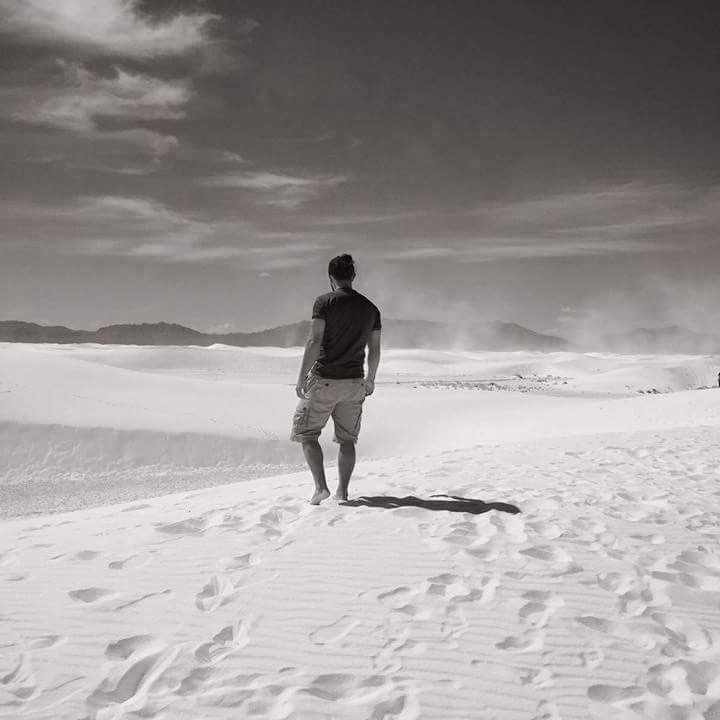
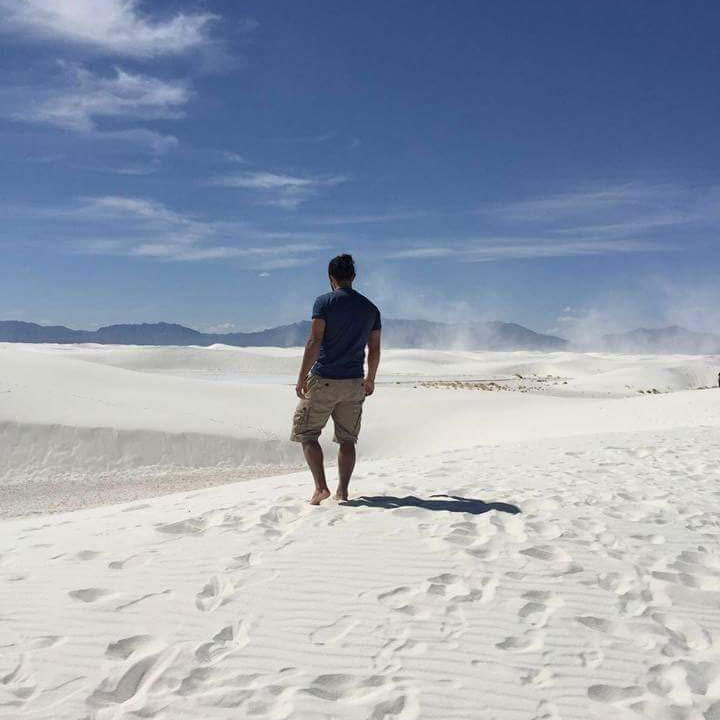
added about page and edited styling for footer

diff --git a/index.html b/index.html
@@ -6,9 +6,16 @@
     <meta http-equiv="X-UA-Compatible" content="ie=edge">
     <title>Awakening Warriors</title>
     <link rel="stylesheet" href="index.css">
-    <link href="https://fonts.googleapis.com/css?family=Open+Sans&display=swap" rel="stylesheet">
-    <script src="https://use.fontawesome.com/d247b6c3c9.js"></script>
+    
+    
+    <link href="https://fonts.googleapis.com/css?family=Open+Sans&display=swap" 
+        rel="stylesheet">
     <link href="https://fonts.googleapis.com/css?family=Arvo&display=swap" rel="stylesheet">
+    <link href="https://fonts.googleapis.com/css?family=Shadows+Into+Light&display=swap" rel="stylesheet">
+
+
+
+    <script src="https://use.fontawesome.com/d247b6c3c9.js"></script>
 </head>
 <body>
     
@@ -47,13 +54,16 @@
        <div class="traintext">
         <h2>Personal Training</h2>
         <p>Lorem ipsum dolor sit amet consectetur adipisicing elit. Optio quo, blanditiis nihil earum quasi voluptatibus eum, perspiciatis culpa maiores quam quis perferendis in. Adipisci earum maxime distinctio quo fugit in?</p>
+        
         <button>
             <a href="#">Boxing Schedule</a>    
         </button>
         <button>
             <a href="https://selfmadetrainingfacility.com/">Our Gym</a>    
         </button>
-    </div>
+        
+        </div>
+        
         <img src='images/training.png'>
         
     </div>
@@ -67,24 +77,26 @@
         </div>
     </div>
     
+    
+    
     <div class='about'>
-       
-        
-        
         <div class='about-text'>
-        <h2>Hi! I'm Godeyvio!</h2>
-        <p>G for short
-            <br/>Lorem ipsum, dolor sit amet consectetur adipisicing elit. Natus quasi earum, porro nobis nostrum accusamus harum, corporis tempora expedita est dolorem repellendus velit? Aliquid ad consectetur deleniti, vel nulla neque?</p>
-             <img src='images/about.jpg'>
-        </div>
+                <h2>Hi, I'm Godeyvio!</h2>
+            <h4>G, for short.</h4>
+            <p>Lorem ipsum, dolor sit amet consectetur adipisicing elit. Natus quasi earum, porro nobis nostrum accusamus harum, corporis tempora expedita est dolorem repellendus velit? Aliquid ad consectetur deleniti, vel nulla neque?</p>
+            </div>
+             
+            <img src='images/about.jpg'>
+        
     </div>
     
+
     <div class='testimonials-carousel'>
         
         <h2>Testimonials</h2>
         
         <div class = 'testimony'>
-        <p>G and Naomi at Awakening Warriors are both amazing! It’s more then just another workout, they push you, they motivate you and you you will feel accomplished. Highly recommended!!</p>
+        <p>G and Naomi at Awakening Warriors are both amazing! It’s more then just another workout, they push you, they motivate you and you will feel accomplished. Highly recommended!!</p>
         <p>-Josh Salgado</p>
         </div>
     </div>
@@ -92,12 +104,25 @@
     
 
     <footer>
-        
-        <a href="#"><i class="fa fa-instagram fa-2x" aria-hidden="true" ></i></a>
+        <div class="footer-nav">
+            <h1><a href="index.html">Awakening Warriors</a></h1>
+                            
+                <a href="#">Life Coaching</a> | 
+                <a href="#">Spiritual Retreats</a> | 
+                
+                <a href="#">Personal Training</a> | 
+                <a href="#">Who is Godeyvio?</a>
+          
+        </div>
 
-        <a href="#"><i class="fa fa-facebook fa-2x" aria-hidden="true"></i></a>
+        <div class='social-media'>
+            <a href="#"><i class="fa fa-instagram fa-2x" aria-hidden="true" ></i></a>
 
-        <a href="#">Contact Us</a>
+            <a href="#"><i class="fa fa-facebook fa-2x" aria-hidden="true"></i></a>
+
+            <a href="#">Contact Us</a>
+        </div>
+    
     </footer>
 </body>
 </html>

diff --git a/index.less b/index.less
@@ -6,15 +6,17 @@ body {
        color: #cacfd2; 
        text-decoration: none;      
     }
-    
+
+   
 }
 //#006e7f, #00494f, #17a1ab #7f868e, #cacfd2
 
-nav {
+ nav {
     // background-color: #000000;
     display: flex;
     justify-content: space-around;
     align-items: center;
+    
     a{
 
         color: #000000;
@@ -61,7 +63,7 @@ nav {
 .spiritual-retreat-container {
     display: flex;
     justify-content: center;
-    padding: 40px 50px; 
+    padding: 20px 50px; 
     color: #00494F;
     
 
@@ -69,6 +71,7 @@ nav {
         width: 30%;
         border-radius: 1%;
         box-shadow: 2px 2px 8px black;;
+        margin: 50px;
     }
 }
 
@@ -82,40 +85,77 @@ nav {
 .traintext {
         text-align: right;
     }
+
     
 .about {
       background-color: gray;
       display: flex;
       flex: wrap;
+    //   flex-direction: row;
+  
 
       img {
-          margin: 3%;
-                width: 30%;
-        border-radius: 1%;
-        box-shadow: 2px 2px 8px black;;
+        width: 30%;
+        justify-content: flex-end;
+        align-items: right;
+        -webkit-filter: grayscale(100%); 
+        
+     filter: grayscale(100%);
+        
     }
 
     .about-text {
         width: 40%;
-        padding: 50px 80px;
+        padding: 50px 150px;
+        
+        h2 {
+            
+            font-family: 'Shadows Into Light', cursive;
+            font-size: 50px;
+            margin: 50px ;
+            text-align: right;
+        }
+
+        h4 {
+            color: rgb(207, 207, 207);
+        }
     }
 
   }
 
 
-.testimonials-carousel {
-   
+.testimonials-carousel {   
       text-align: center;
+      height: 15vh;
+      margin: 8%;
 
     .testimony {
-       padding: 10px 200px;
+       padding: 10px 10px;
     }
 } 
 footer {
 
     background-color: #000000 ;
-    display: flex;
-    justify-content: space-evenly;
+    display: flex;    
+    flex-direction: column;
     padding: 20px;
+    color: white;
+    text-align: center;
+   
+    
+    .social-media {
+        width: 40%;
+        display: flex;
+        justify-content: space-evenly;
+        align-items: center;
+        // padding: 10px 0px 10px 350px;
+        text-align: center;
 
+        a{
+            text-align: center;
+            align-items: center;
+        }
+    }
+
+    
 }

diff --git a/index.css b/index.css
@@ -45,7 +45,7 @@ nav a {
 .spiritual-retreat-container {
   display: flex;
   justify-content: center;
-  padding: 40px 50px;
+  padding: 20px 50px;
   color: #00494F;
 }
 .life-coaching-container img,
@@ -54,6 +54,7 @@ nav a {
   width: 30%;
   border-radius: 1%;
   box-shadow: 2px 2px 8px black;
+  margin: 50px;
 }
 .coachtext,
 .traintext,
@@ -70,24 +71,49 @@ nav a {
   flex: wrap;
 }
 .about img {
-  margin: 3%;
   width: 30%;
-  border-radius: 1%;
-  box-shadow: 2px 2px 8px black;
+  justify-content: flex-end;
+  align-items: right;
+  -webkit-filter: grayscale(100%);
+  filter: grayscale(100%);
 }
 .about .about-text {
   width: 40%;
-  padding: 50px 80px;
+  padding: 50px 150px;
+}
+.about .about-text h2 {
+  font-family: 'Shadows Into Light', cursive;
+  font-size: 50px;
+  margin: 50px ;
+  text-align: right;
+}
+.about .about-text h4 {
+  color: #cfcfcf;
 }
 .testimonials-carousel {
   text-align: center;
+  height: 15vh;
+  margin: 8%;
 }
 .testimonials-carousel .testimony {
-  padding: 10px 200px;
+  padding: 10px 10px;
 }
 footer {
   background-color: #000000;
   display: flex;
-  justify-content: space-evenly;
+  flex-direction: column;
   padding: 20px;
+  color: white;
+  text-align: center;
+}
+footer .social-media {
+  width: 40%;
+  display: flex;
+  justify-content: space-evenly;
+  align-items: center;
+  text-align: center;
+}
+footer .social-media a {
+  text-align: center;
+  align-items: center;
 }
